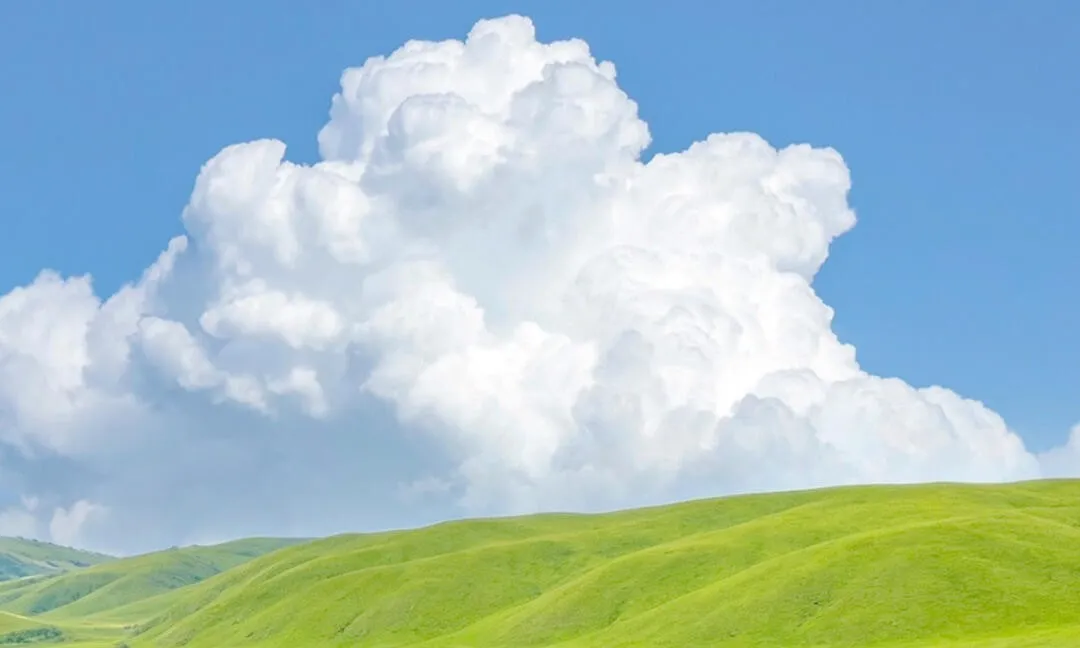
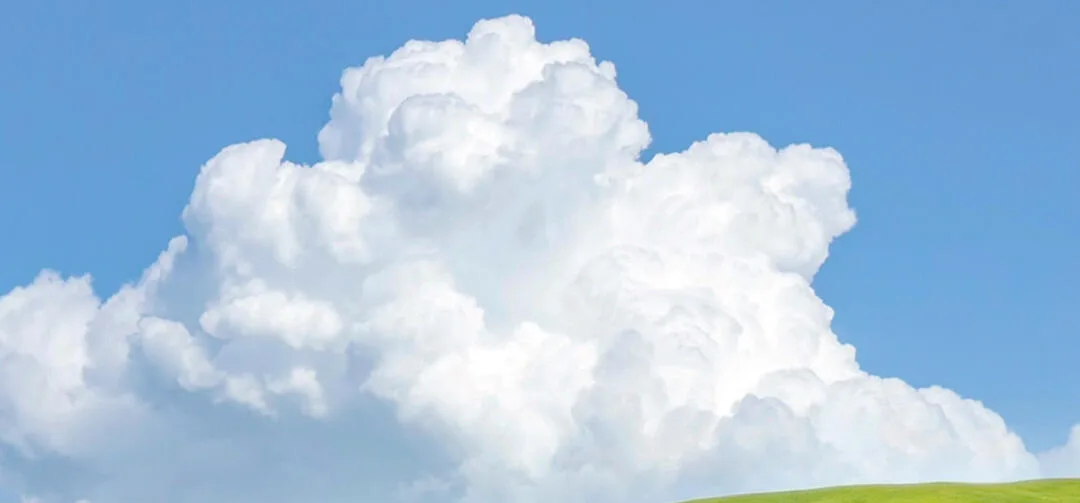
坝上看板v17：智能裁剪保精华，改手机竖屏比例

diff --git a/travel/bashang/index.html b/travel/bashang/index.html
@@ -10,16 +10,16 @@
 --sh:0 2px 14px rgba(60,50,30,.07);
 }
 body{background:var(--bg);color:var(--txt);font:15px/1.7 -apple-system,"PingFang SC","Microsoft YaHei",sans-serif;-webkit-font-smoothing:antialiased}
-.wrap{max-width:1120px;margin:0 auto;padding:0 18px 60px}
+.wrap{max-width:640px;margin:0 auto;padding:0 14px 50px}
 .hero{position:relative;border-radius:20px;overflow:hidden;margin:22px 0 18px;box-shadow:var(--sh)}
-.hero img{width:100%;height:340px;object-fit:cover;display:block}
+.hero img{width:100%;height:auto;aspect-ratio:3/2;object-fit:cover;display:block}
 .hero .ov{position:absolute;inset:0;background:linear-gradient(180deg,rgba(20,22,18,.30) 0%,rgba(20,22,18,.62) 62%,rgba(20,22,18,.86) 100%)}
 .hero .in{position:absolute;left:0;right:0;bottom:0;padding:26px 30px;color:#fff}
 .tag{display:inline-block;font-size:12px;letter-spacing:.6px;background:rgba(255,255,255,.18);border:1px solid rgba(255,255,255,.35);padding:4px 11px;border-radius:99px;margin-bottom:12px}
 .hero h1{font-size:30px;line-height:1.32;font-weight:700;letter-spacing:.3px}
 .hero h1 em{font-style:normal;color:#ffd9a0}
 .hero p{margin-top:8px;font-size:13.5px;color:rgba(255,255,255,.86)}
-.kpis{display:grid;grid-template-columns:repeat(4,1fr);gap:12px;margin:0 0 26px}
+.kpis{display:grid;grid-template-columns:repeat(2,1fr);gap:10px;margin:0 0 22px}
 .kpi{background:var(--card);border:1px solid var(--line);border-radius:14px;padding:14px 16px;box-shadow:var(--sh)}
 .kpi b{display:block;font-size:22px;color:var(--a);letter-spacing:.4px}
 .kpi span{display:block;font-size:12.5px;color:var(--sub);margin-top:3px}
@@ -31,9 +31,9 @@ h2 small{display:block;font-size:12.5px;color:var(--sub);font-weight:400;margin-
 .hl{background:#fdf1e2;border-left:3px solid var(--a2);padding:12px 16px;border-radius:0 10px 10px 0;margin:12px 0;font-size:14px}
 .hl b{color:var(--warn)}
 ul{margin:8px 0 0 20px}li{margin:5px 0}
-.gal{display:grid;grid-template-columns:repeat(3,1fr);gap:12px}
+.gal{display:grid;grid-template-columns:1fr;gap:12px}
 figure{background:var(--card);border:1px solid var(--line);border-radius:14px;overflow:hidden;box-shadow:var(--sh)}
-figure img{width:100%;height:170px;object-fit:cover;display:block}
+figure img{width:100%;height:auto;aspect-ratio:3/2;object-fit:cover;display:block}
 figcaption{padding:10px 13px;font-size:12.5px;color:var(--sub);line-height:1.5}
 figcaption b{color:var(--txt);font-size:13.5px;display:block;margin-bottom:2px}
 table{width:100%;border-collapse:collapse;font-size:13.5px;background:var(--card);border-radius:14px;overflow:hidden;box-shadow:var(--sh)}
@@ -43,20 +43,17 @@ tbody tr:last-child td{border-bottom:none}
 tbody tr:nth-child(even){background:#fdfbf7}
 td.d{white-space:nowrap;color:var(--sub);font-size:12.5px}
 td.km{white-space:nowrap;color:var(--blue);font-size:12.5px}
-.cards{display:grid;grid-template-columns:repeat(2,1fr);gap:12px}
+.cards{display:grid;grid-template-columns:1fr;gap:12px}
 .card{background:var(--card);border:1px solid var(--line);border-radius:14px;padding:16px 18px;box-shadow:var(--sh)}
-.card img.cimg{width:calc(100% + 36px);margin:-16px -18px 12px;height:210px;object-fit:cover;border-radius:14px 14px 0 0;display:block}
+.card img.cimg{width:calc(100% + 36px);margin:-16px -18px 12px;height:auto;aspect-ratio:3/2;object-fit:cover;border-radius:14px 14px 0 0;display:block}
 .card h3{font-size:15px;margin-bottom:6px;color:var(--deep)}
 .card p{font-size:13.5px;color:#4d5462}
 .mapwrap{background:var(--card);border:1px solid var(--line);border-radius:14px;padding:10px;box-shadow:var(--sh)}
 svg{display:block;width:100%;height:auto}
 .foot{margin-top:34px;font-size:12px;color:#9aa1ad;line-height:1.8;border-top:1px dashed var(--line);padding-top:14px}
 @media(max-width:820px){
-.kpis{grid-template-columns:repeat(2,1fr)}
-.gal,.cards{grid-template-columns:1fr}
 .hero img{height:260px}.hero h1{font-size:22px}.hero .in{padding:18px 20px}
 table{font-size:12.5px}th,td{padding:9px 10px}
-.wrap{padding:0 12px 40px}
 }
 </style></head><body><div class="wrap">
 
